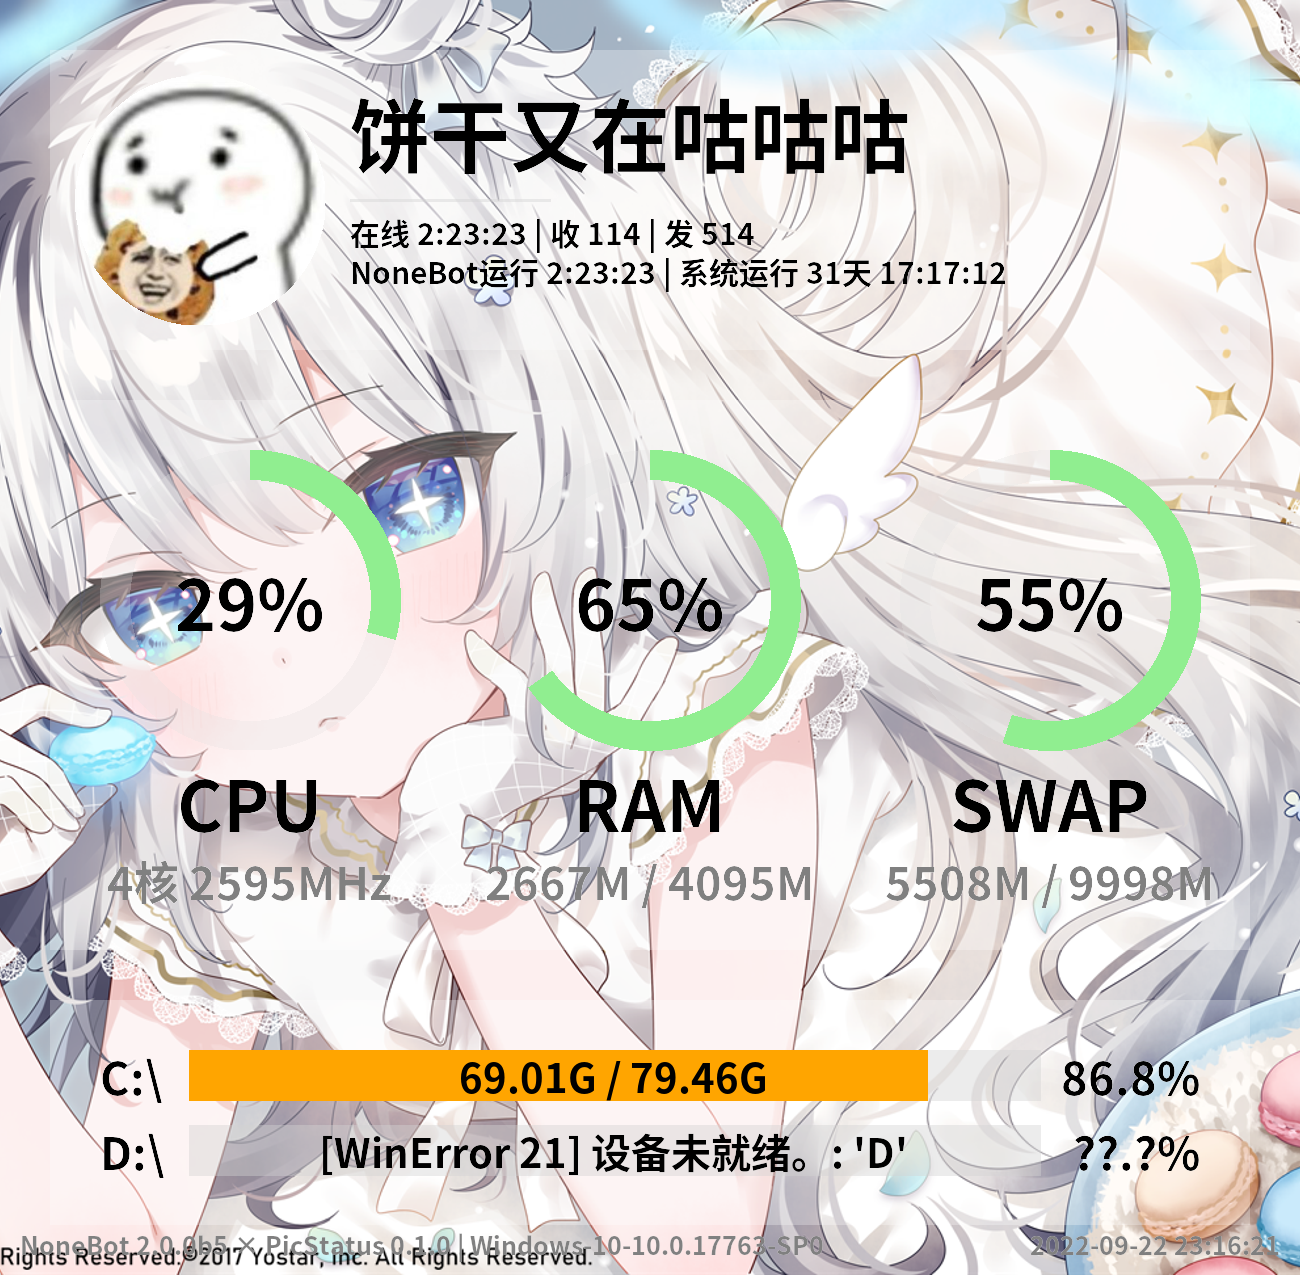
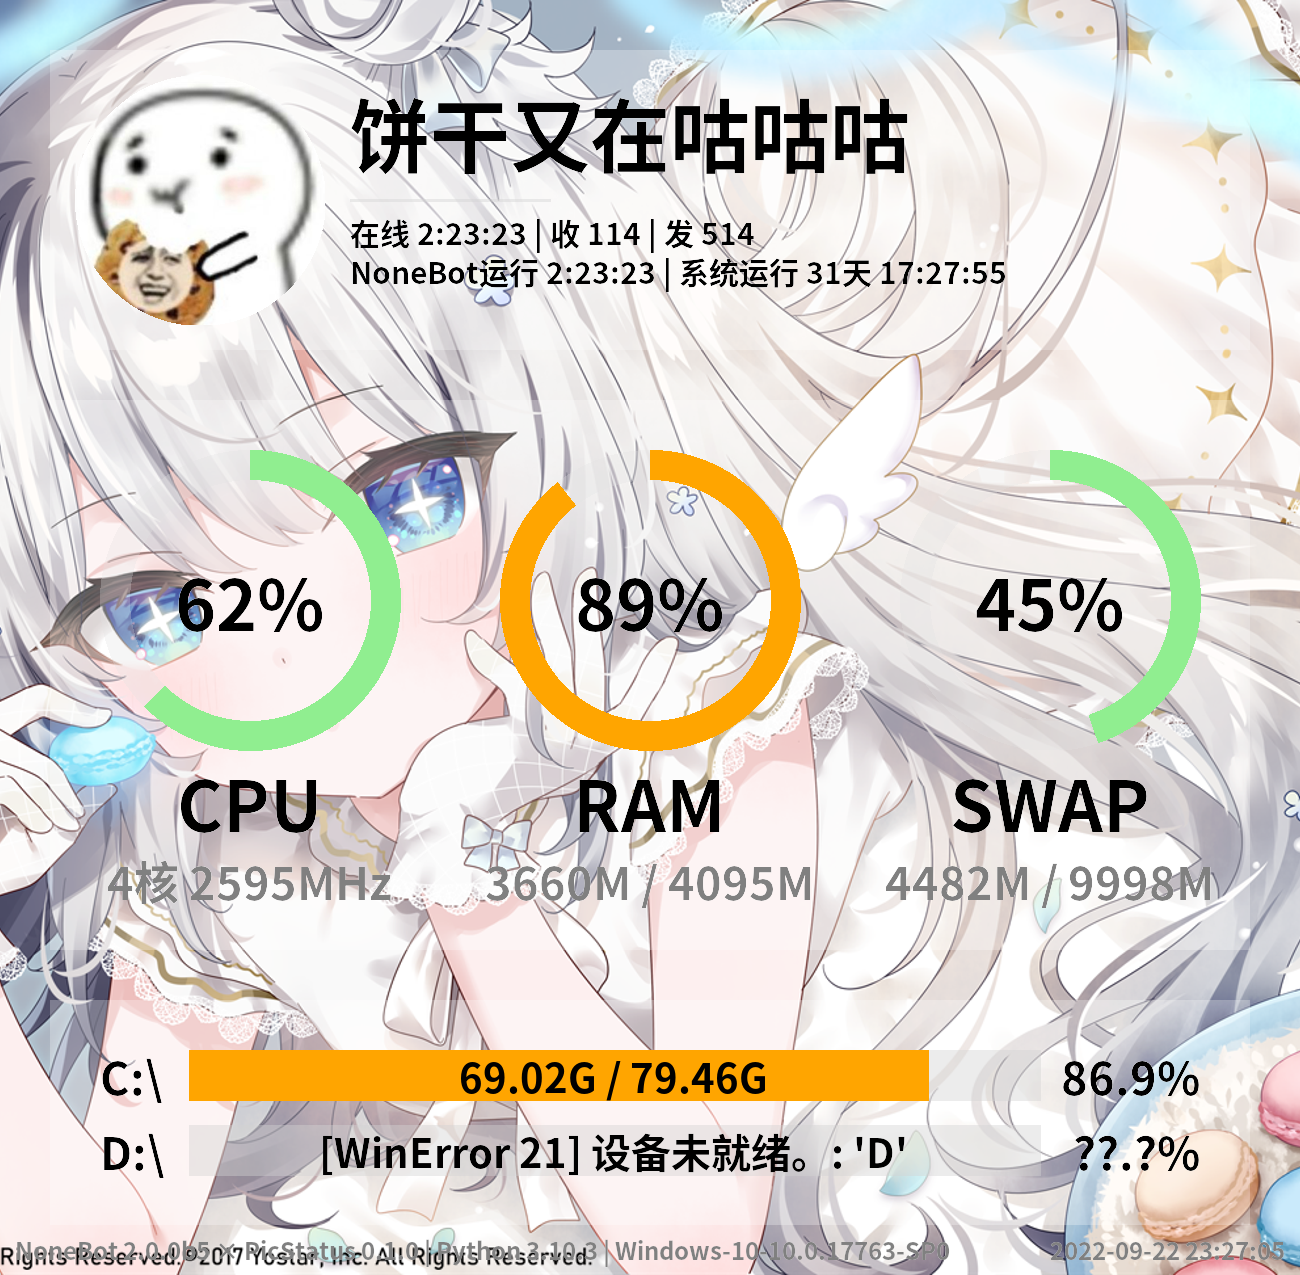
demo

diff --git a/demo/demo.py b/demo/demo.py
@@ -18,6 +18,7 @@ def get_font(size: int):
 
 
 def get_usage_color(usage: float):
+    usage = round(usage)
     if usage >= 90:
         return "orangered"
     elif usage >= 70:
@@ -38,14 +39,15 @@ def format_timedelta(t: timedelta):
 
 
 async def async_open_img(fp, *args, **kwargs) -> Image.Image:
-    async with aiofiles.open(fp, 'rb') as f:
+    async with aiofiles.open(fp, "rb") as f:
         p = BytesIO(await f.read())
     return Image.open(p, *args, **kwargs)
 
 
 async def draw_header():
     booted = format_timedelta(
-        datetime.now() - datetime.fromtimestamp(psutil.boot_time()))
+        datetime.now() - datetime.fromtimestamp(psutil.boot_time())
+    )
 
     font_30 = get_font(30)
     font_80 = get_font(80)
@@ -58,8 +60,11 @@ async def draw_header():
     ImageDraw.Draw(circle_mask).ellipse((0, 0, 250, 250), fill="black")
 
     # 利用遮罩裁剪圆形图片
-    avatar = (await async_open_img("photo_2020-12-08_22-46-51.jpg")).convert(
-        "RGBA").resize((250, 250))
+    avatar = (
+        (await async_open_img("photo_2020-12-08_22-46-51.jpg"))
+        .convert("RGBA")
+        .resize((250, 250))
+    )
     bg.paste(avatar, (25, 25), circle_mask)
 
     # 标题
@@ -238,18 +243,29 @@ async def draw_disk_usage():
 
 
 async def draw_footer(img: Image.Image):
-    # 系统信息
-    system = platform.platform()
-
-    font_25 = get_font(25)
+    font_24 = get_font(24)
     draw = ImageDraw.Draw(img)
     w, h = img.size
+    padding = 15
 
-    draw.text((20, h - 20), f'NoneBot 2.0.0b5 × PicStatus 0.1.0 | {system}', 'gray',
-              font_25,
-              'ls')
-    draw.text((w - 20, h - 20), time.strftime('%Y-%m-%d %H:%M:%S'), 'gray', font_25,
-              'rs')
+    draw.text(
+        (padding, h - padding),
+        (
+            f"NoneBot 2.0.0b5 × PicStatus 0.1.0 | "
+            f"Python {platform.python_version()} | "
+            f"{platform.platform()}"
+        ),
+        "gray",
+        font_24,
+        "ls",
+    )
+    draw.text(
+        (w - padding, h - padding),
+        time.strftime("%Y-%m-%d %H:%M:%S"),
+        "gray",
+        font_24,
+        "rs",
+    )
 
 
 async def get_stat_pic(bg):
@@ -258,9 +274,7 @@ async def get_stat_pic(bg):
 
     # 获取各模块图片
     ret: list[Image.Image] = await asyncio.gather(  # noqa
-        draw_header(),
-        draw_cpu_memory_usage(),
-        draw_disk_usage()
+        draw_header(), draw_cpu_memory_usage(), draw_disk_usage()
     )
 
     # 统计图片高度
@@ -268,7 +282,7 @@ async def get_stat_pic(bg):
         img_h += p.size[1] + 50
 
     # 拼接图片
-    img = Image.new('RGBA', (img_w, img_h), '#ffffff00')
+    img = Image.new("RGBA", (img_w, img_h), "#ffffff00")
     h_pos = 50
     for p in ret:
         img.paste(p, (50, h_pos), p)
